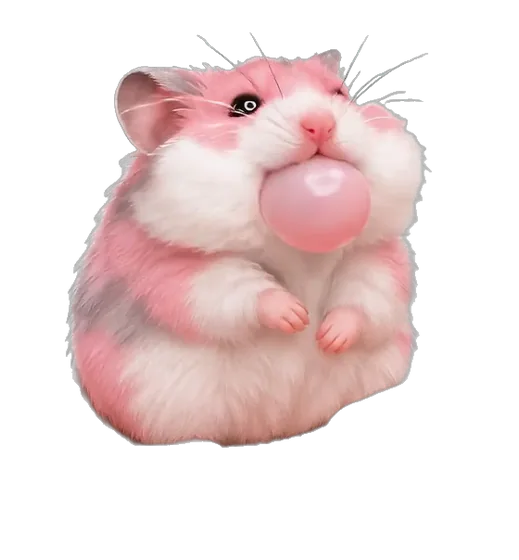
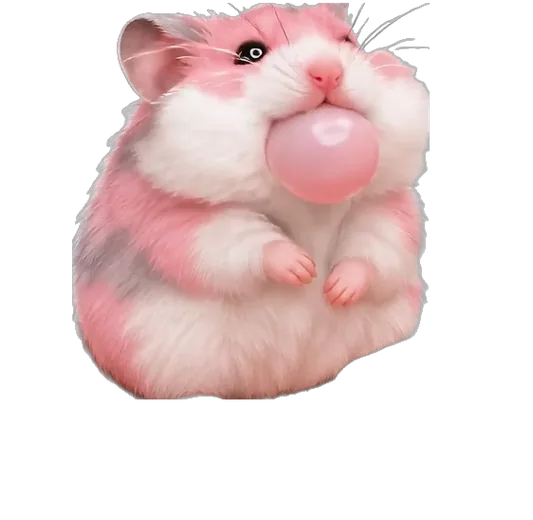
Biscuit is soft too: the jelly engine under his close-up
He squishes like a little cushion under your finger while his own film
plays (seeds, cheeks, eyes closing). Frames recut tight around him so he
sits on the floor of the scene.

Claude-Session: https://claude.ai/code/session_01PiQbiDdHzkNFQqS3tJ9L5K

diff --git a/js/hamster.js b/js/hamster.js
@@ -91,7 +91,8 @@
   GAME.MINI.biscuit = function (panel, done) {
     panel.innerHTML = '';
     const FR = Array.from({ length: 26 }, (_, i) => 'img/fx/biscuit/' + String(i).padStart(2, '0') + '.webp');
-    FR.forEach(u => { const im = new Image(); im.src = u; });
+    const pre = FR.map(u => { const im = new Image(); im.src = u; return im; });
+    let jelly = null;   /* the soft body (js/jelly-pet.js): he squishes like a little cushion */
     const box = el('div', 'cp ho ho-pet ho-bis'); box.setAttribute('role', 'dialog');
     box.innerHTML = '<div class="cp-area"><div class="ho-bg"></div><div class="pet-body"><img class="pet-cat" alt=""></div><div class="pet-sub"><strong class="cp-title"></strong><span class="cp-hint"></span></div><button type="button" class="cp-skip"></button></div>';
     $('stage').appendChild(box);
@@ -105,15 +106,16 @@
     q('.ho-bg').style.backgroundImage = bg ? `url(${bg})` : '';
     const alt = el('button', 'opt main cp-alt', tx(T('Put him back', '{رجّعه|رجّعيه}'))); alt.type = 'button'; panel.appendChild(alt);
     let over = false, won = false, cur = 0, seeds = 0, calm = 0, eating = -1, freeze = 0, last = null, travel = 0, downAt = 0, raf = 0, lastStep = 0;
-    const show = i => { if (i !== cur || !img.src) { cur = i; img.src = FR[i]; } };
+    const show = i => { if (i !== cur || !img.src) { cur = i; img.src = FR[i]; if (jelly) jelly.show(i); } };
     show(0);
-    const finish = r => { if (over) return; over = true; cancelAnimationFrame(raf); alt.remove(); box.classList.add('out'); box.style.pointerEvents = 'none'; setTimeout(() => box.remove(), 260); done(r); };
+    const finish = r => { if (over) return; over = true; cancelAnimationFrame(raf); if (jelly) setTimeout(() => jelly.detach(), 280); alt.remove(); box.classList.add('out'); box.style.pointerEvents = 'none'; setTimeout(() => box.remove(), 260); done(r); };
     q('.cp-skip').onclick = ev => { ev.stopPropagation(); finish(0); };
     alt.onclick = () => finish(0);
     const loop = now => {
       if (over) return; raf = requestAnimationFrame(loop);
       const fz = Math.max(0, freeze - now) / 900;
-      body.style.transform = `translateX(-50%) scale(${(1 - fz * 0.04).toFixed(3)}, ${(1 + Math.sin(now / 420) * 0.008 - fz * 0.06).toFixed(3)})`;
+      if (jelly) { area.style.transform = fz > 0.02 ? `scale(${(1 - fz * 0.02).toFixed(3)})` : ''; }
+      else body.style.transform = `translateX(-50%) scale(${(1 - fz * 0.04).toFixed(3)}, ${(1 + Math.sin(now / 420) * 0.008 - fz * 0.06).toFixed(3)})`;
       if (now - lastStep < 83) return; lastStep = now;
       if (eating >= 0) { const k = Math.floor((now - eating) / 83); if (k < 12) return show(4 + k); eating = -1; }
       const sleepy = Math.round(Math.min(1, calm / 100) * 9);
@@ -129,8 +131,12 @@
       show((cur + (Math.random() < 0.35 ? 1 : 0)) % 4);            /* sniffing */
     };
     raf = requestAnimationFrame(loop);
-    const onHim = ev => { const r = img.getBoundingClientRect(); return ev.clientX > r.left + r.width * 0.15 && ev.clientX < r.right - r.width * 0.15 && ev.clientY > r.top && ev.clientY < r.top + r.height * 0.72; };
-    area.addEventListener('pointerdown', ev => { if (over || won) return; ev.preventDefault(); last = { x: ev.clientX, y: ev.clientY, t: performance.now() }; travel = 0; downAt = last.t; try { area.setPointerCapture(ev.pointerId); } catch (e) { /* none */ } });
+    if (typeof JELLY !== 'undefined') JELLY.attach(area, pre, { size: 1.25, soft: 0.75 }).then(j => {
+      if (!j || over) { if (j) j.detach(); return; }
+      jelly = j; jelly.show(cur); box.classList.add('jelly');
+    });
+    const onHim = ev => { const r = jelly ? jelly.rect() : img.getBoundingClientRect(); return ev.clientX > r.left + r.width * 0.15 && ev.clientX < r.right - r.width * 0.15 && ev.clientY > r.top && ev.clientY < r.top + r.height * 0.72; };
+    area.addEventListener('pointerdown', ev => { if (over || won) return; ev.preventDefault(); last = { x: ev.clientX, y: ev.clientY, t: performance.now() }; travel = 0; downAt = last.t; if (!jelly) try { area.setPointerCapture(ev.pointerId); } catch (e) { /* none */ } });
     area.addEventListener('pointermove', ev => {
       if (over || won || !last || performance.now() < freeze) return;
       const now = performance.now(), d = Math.hypot(ev.clientX - last.x, ev.clientY - last.y), sp = d / Math.max(1, now - last.t);
